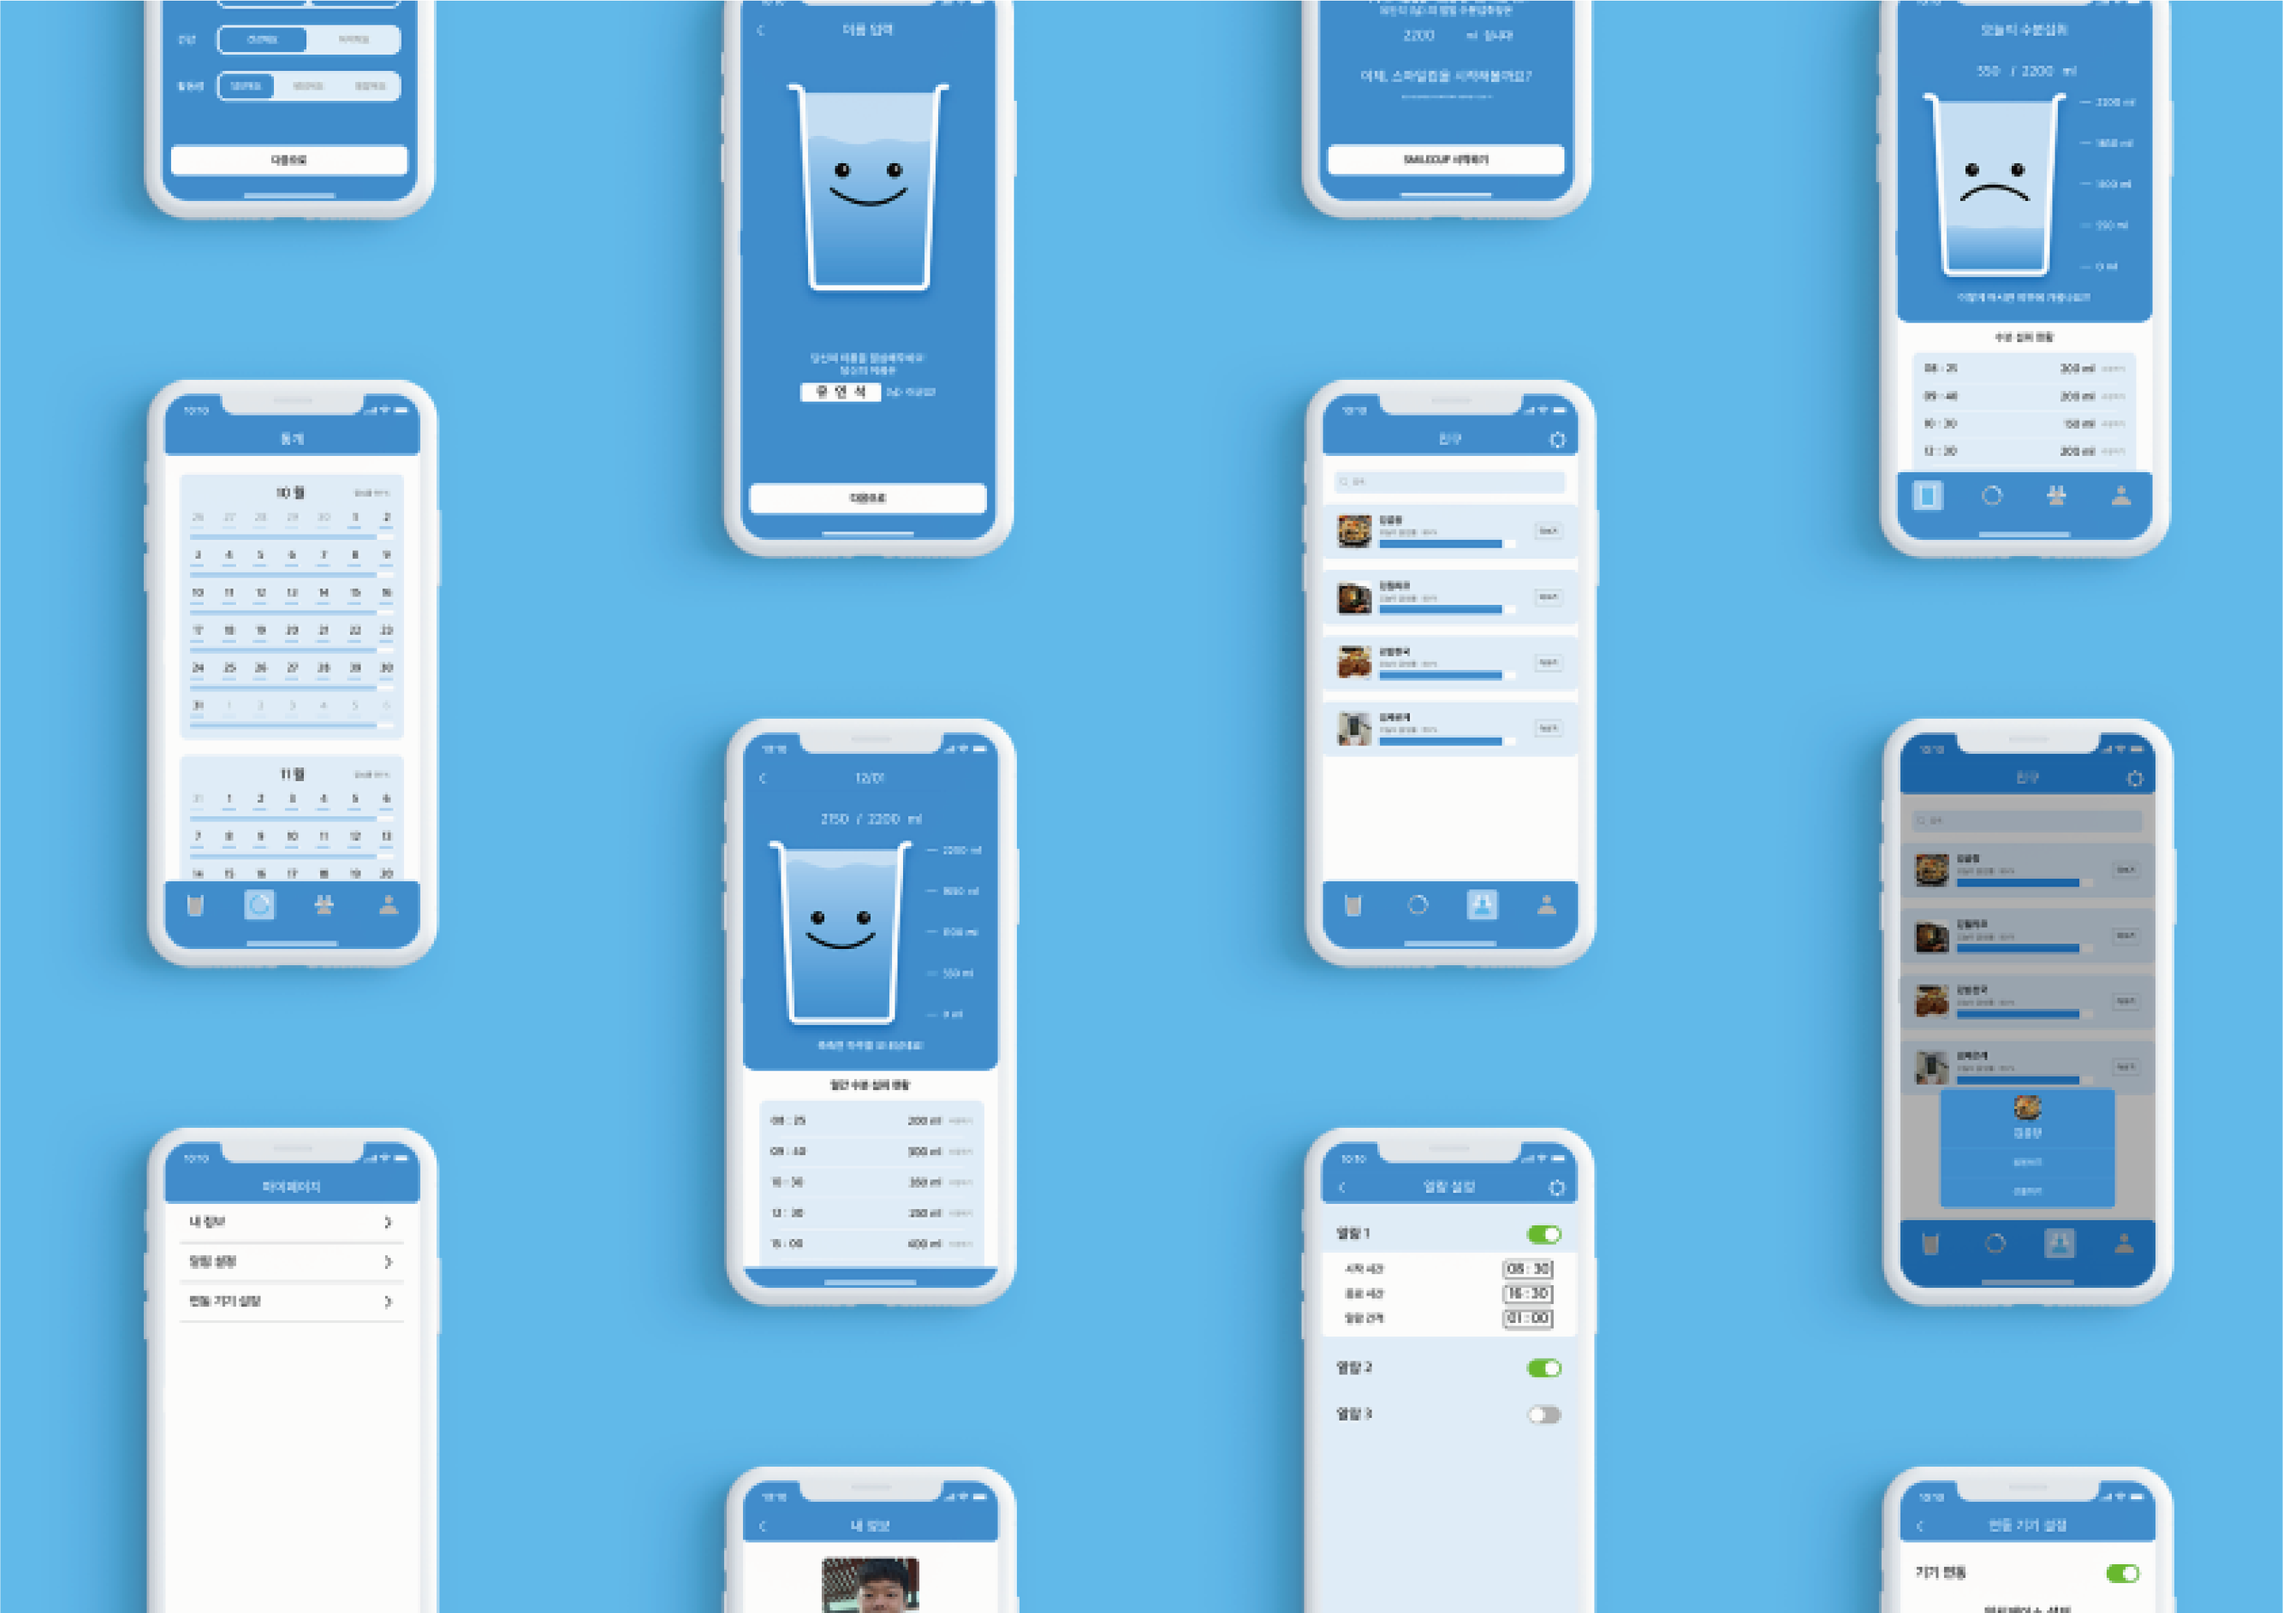
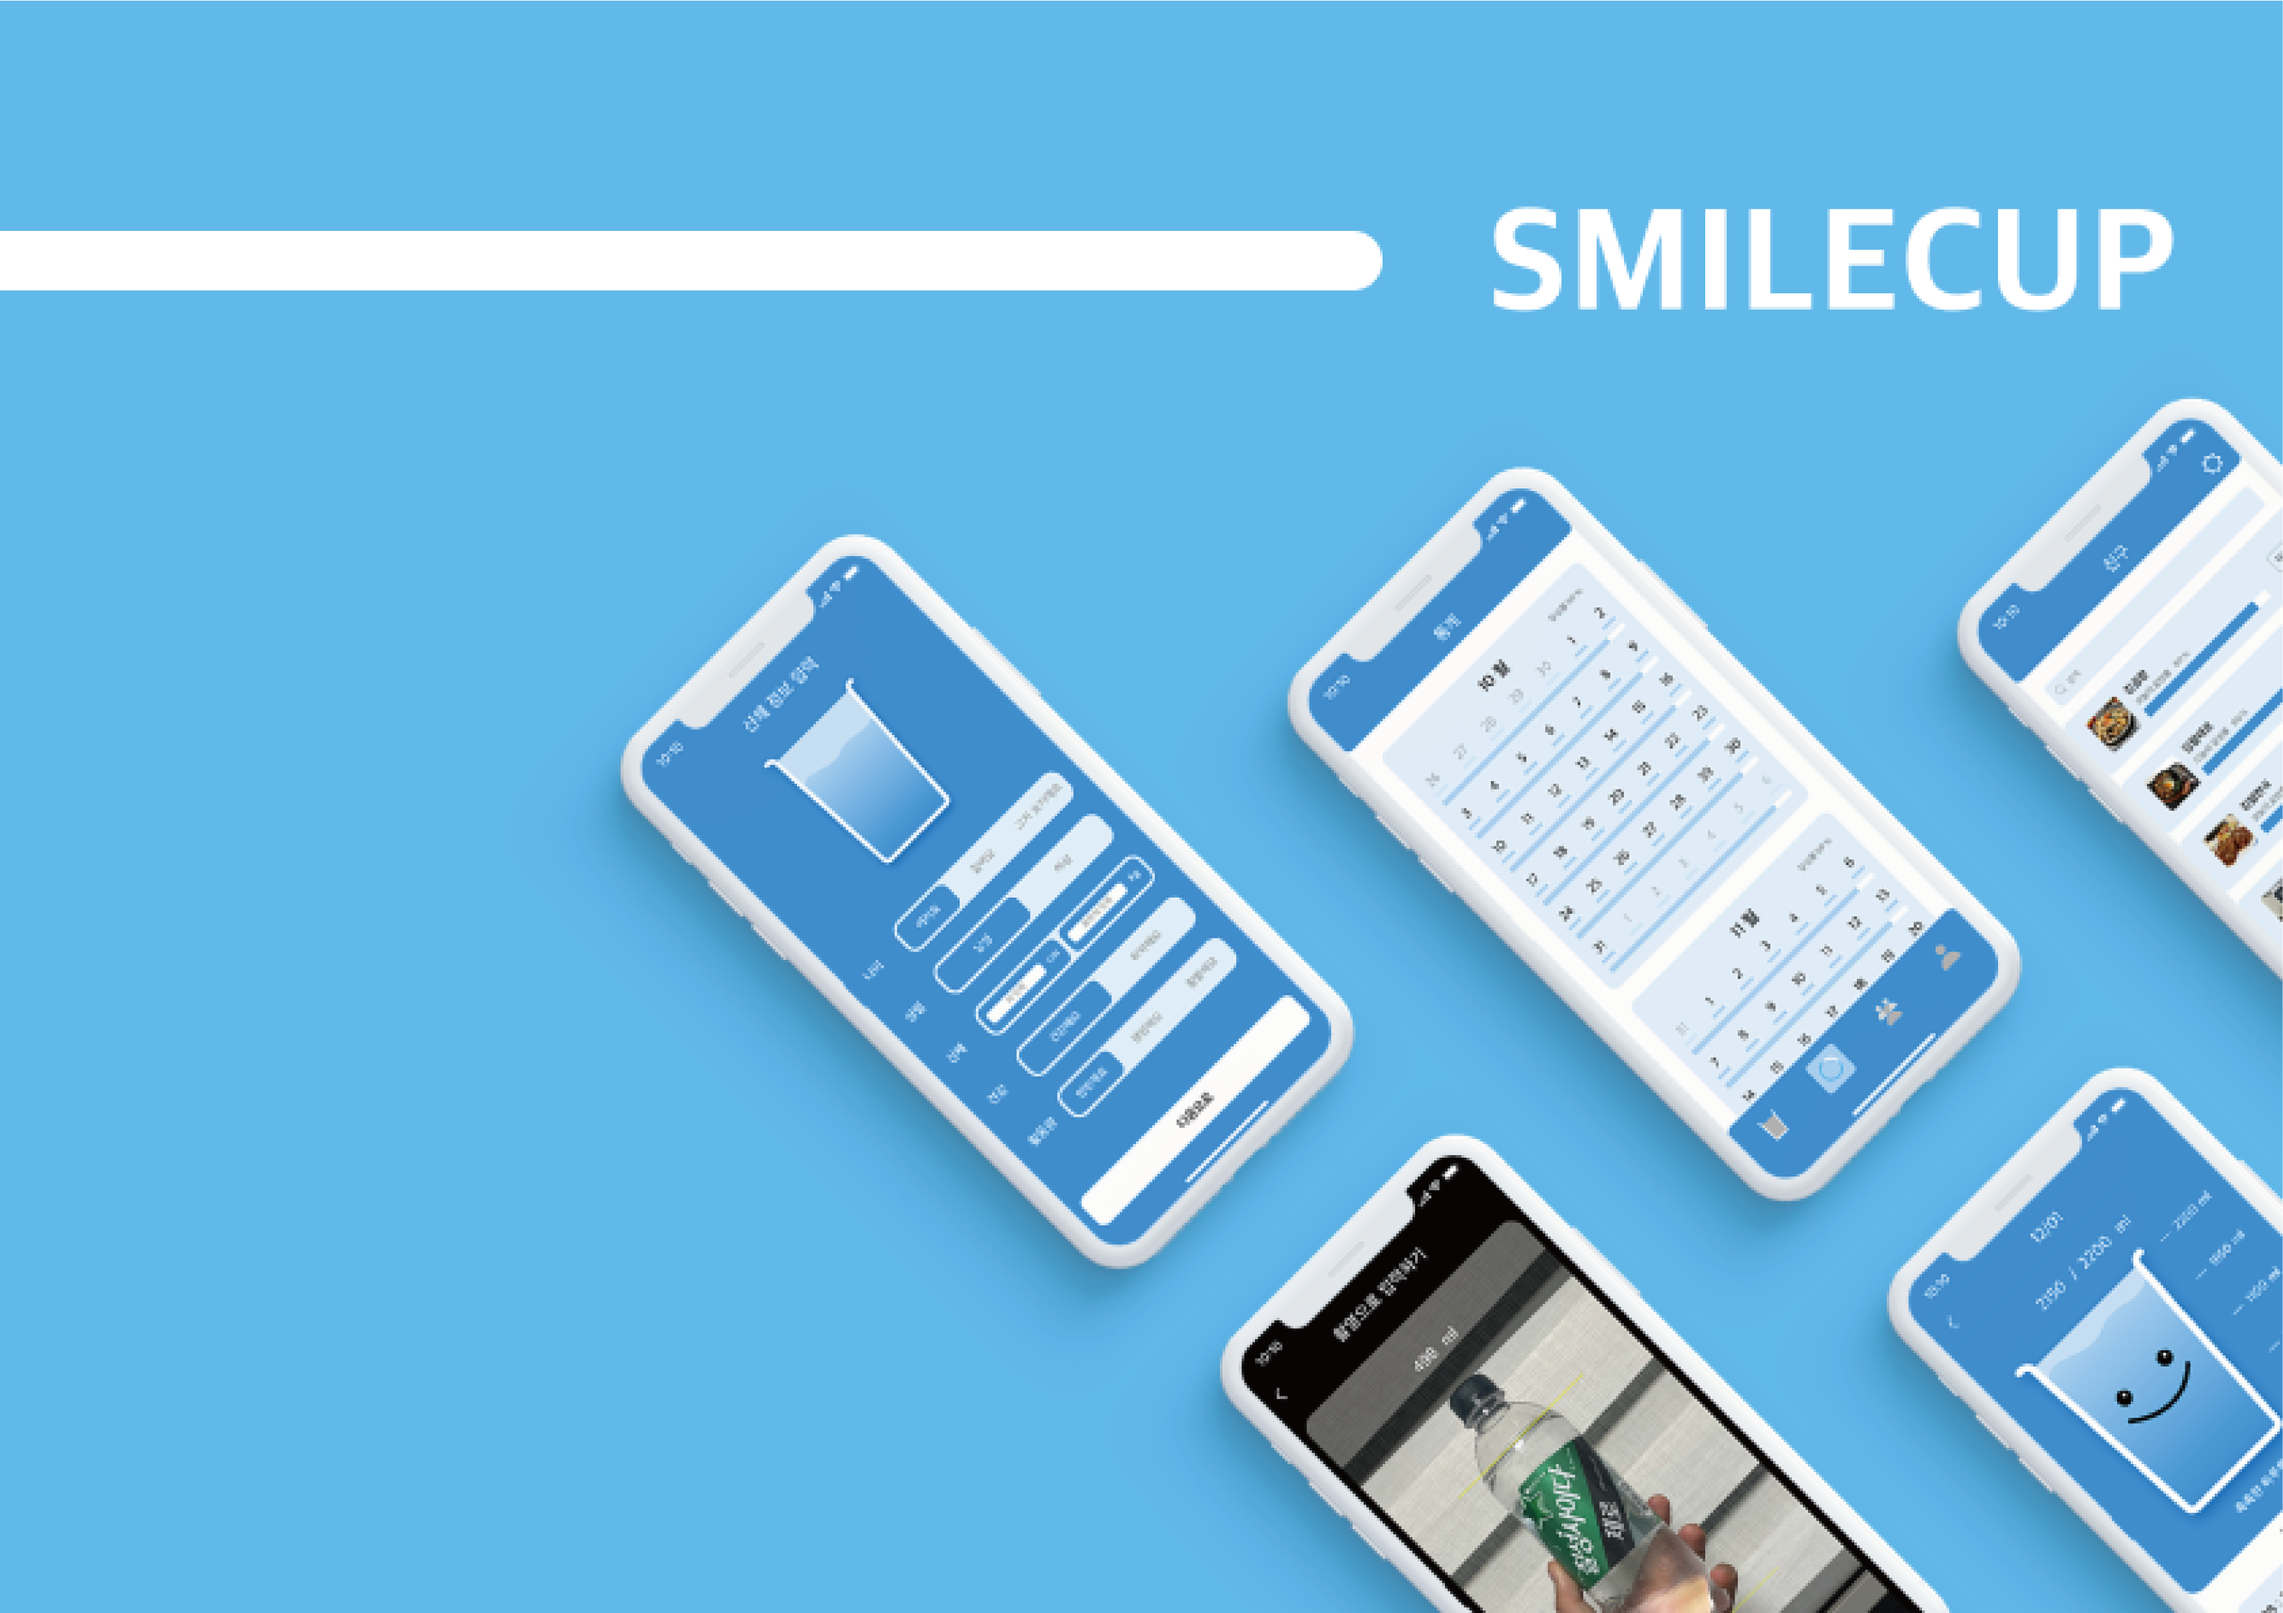
Add files via upload

diff --git a/css/master.css b/css/master.css
@@ -229,17 +229,22 @@ background-color: black;}
   justify-content: center;
   align-items: center;}
 
-.smilecup{background-color: #61B9E9; width: 100%; height: 7135px; align-items: center;}
-  .scimg{width: 1263px; height: 892px;background-size: cover; 
+.smilecup{background-color: #61B9E9; width: 100%; height: 6230px; align-items: center;}
+  .scimg{width: 1263px; height: 892px;background-size: cover;
     background-position: center;display: block; margin-left: auto;  margin-right: auto;}
-  .p1{background-image: url('../img/sc1.png');}
+
+  .p1{width: 100%;height: 892px;display: flex;justify-content: center;}
+.splash{width: 50%; display: flex;justify-content: center;}
+.splash > img{ transform: translateX(100%) translatey(-30%);top:350px; margin-top: 400px;}
+.scbrand{width: 50%; display: flex;justify-content: center;
+transform: scale(0.4) translateX(-80%) translatey(20%);}
+
   .p2{background-image: url('../img/sc2.png');}
   .p3{background-image: url('../img/sc3.png');}
   .p4{background-image: url('../img/sc4.png');}
   .p5{background-image: url('../img/sc5.png');}
   .p6{background-image: url('../img/sc6.png');}
   .p7{background-image: url('../img/sc7.png');}
-  .p8{background-image: url('../img/sc8.png');}
 
 
 

diff --git a/sub04.html b/sub04.html
@@ -41,14 +41,18 @@
   </div>
 
 <div class="smilecup">
-<div class="scimg p1"></div>
+
+<div class="scimg p1">
+  <div class="splash sc"><img src="img/splash.png"></div>
+  <div class="scbrand sc"><img src="img/smilcupbrand.png"></div>
+</div>
+
 <div class="scimg p2 "></div>
 <div class="scimg p3 "></div>
 <div class="scimg p4"></div>
 <div class="scimg p5"></div>
 <div class="scimg p6"></div>
 <div class="scimg p7"></div>
-<div class="scimg p8"></div>
 
 </div>
 

diff --git a/sub01.html b/sub01.html
@@ -85,7 +85,7 @@
 
       <div class="gototop">
         <a href="#header"><img src="img/gototop.png"</a></div>
-        
+
   <!--/스크립트 적용 부문 시작 -->
         <script>
       AOS.init({easing: 'ease-out-back',duration: 1000});
